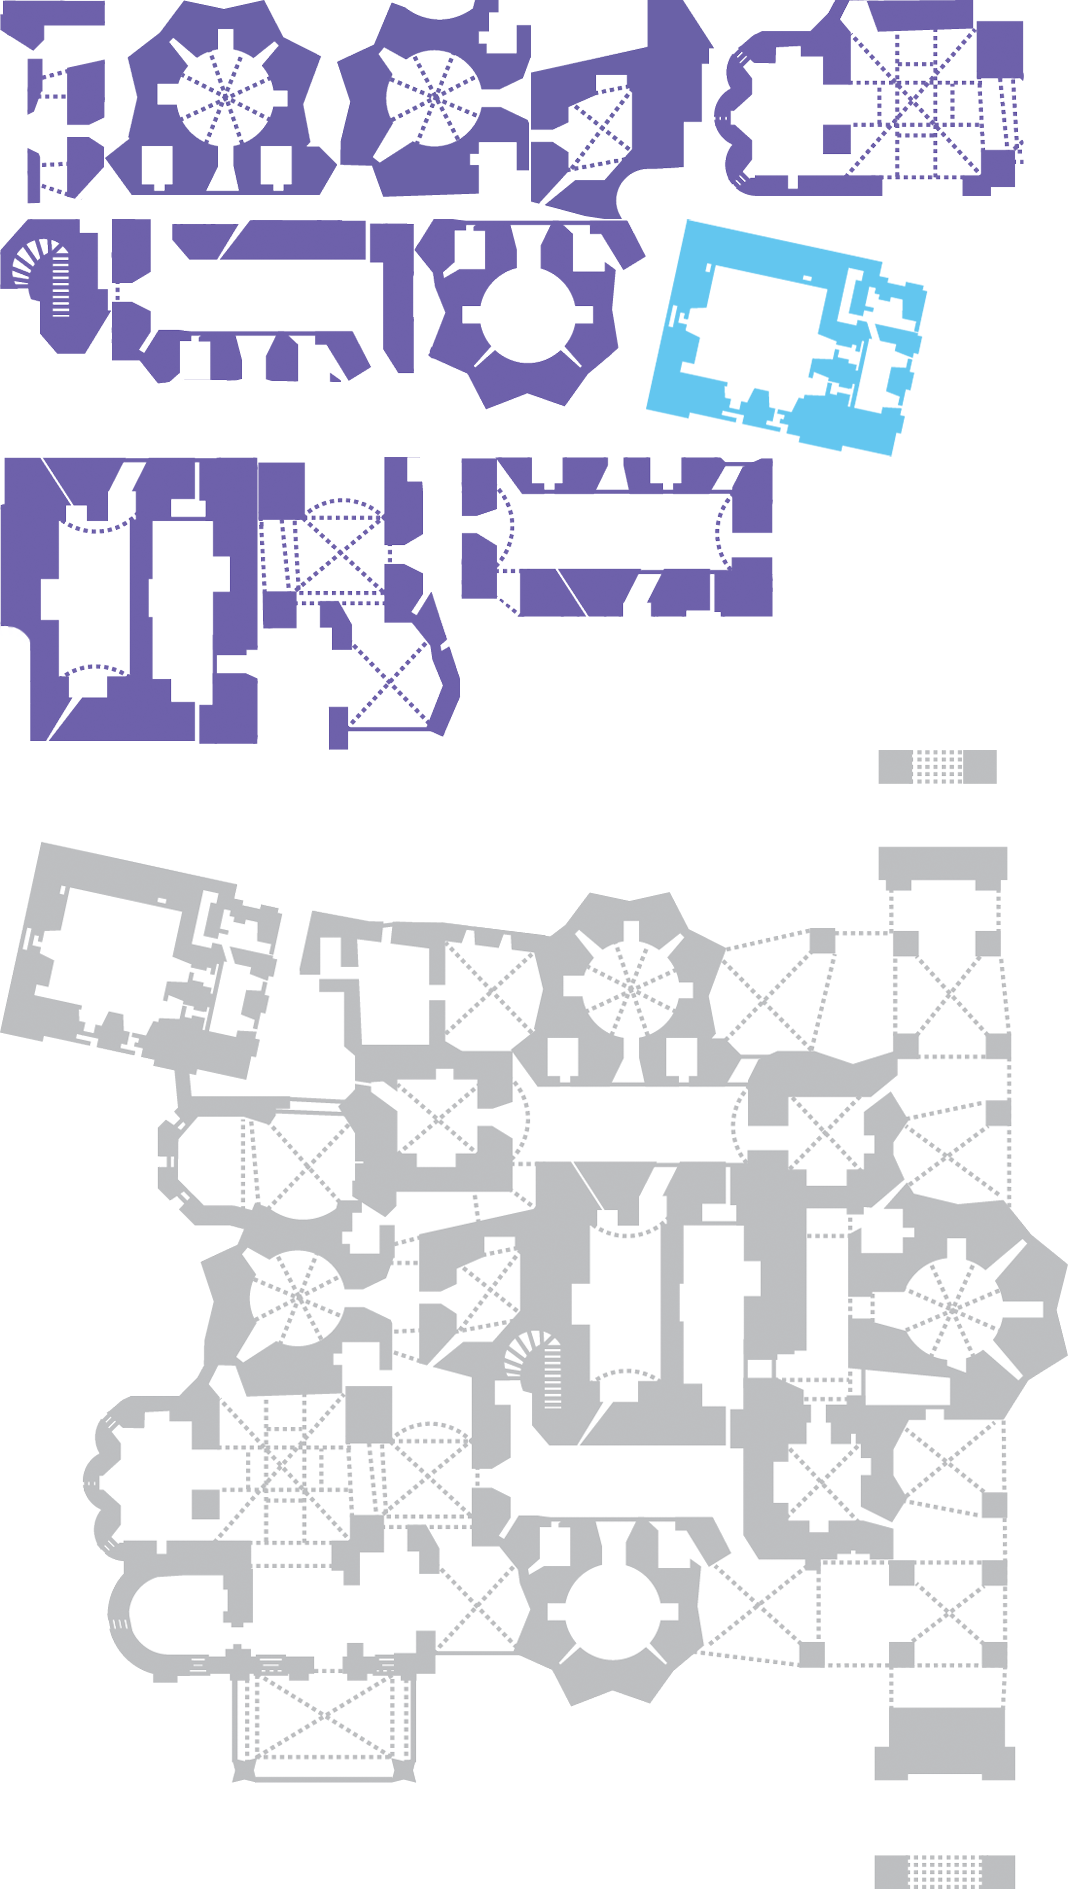
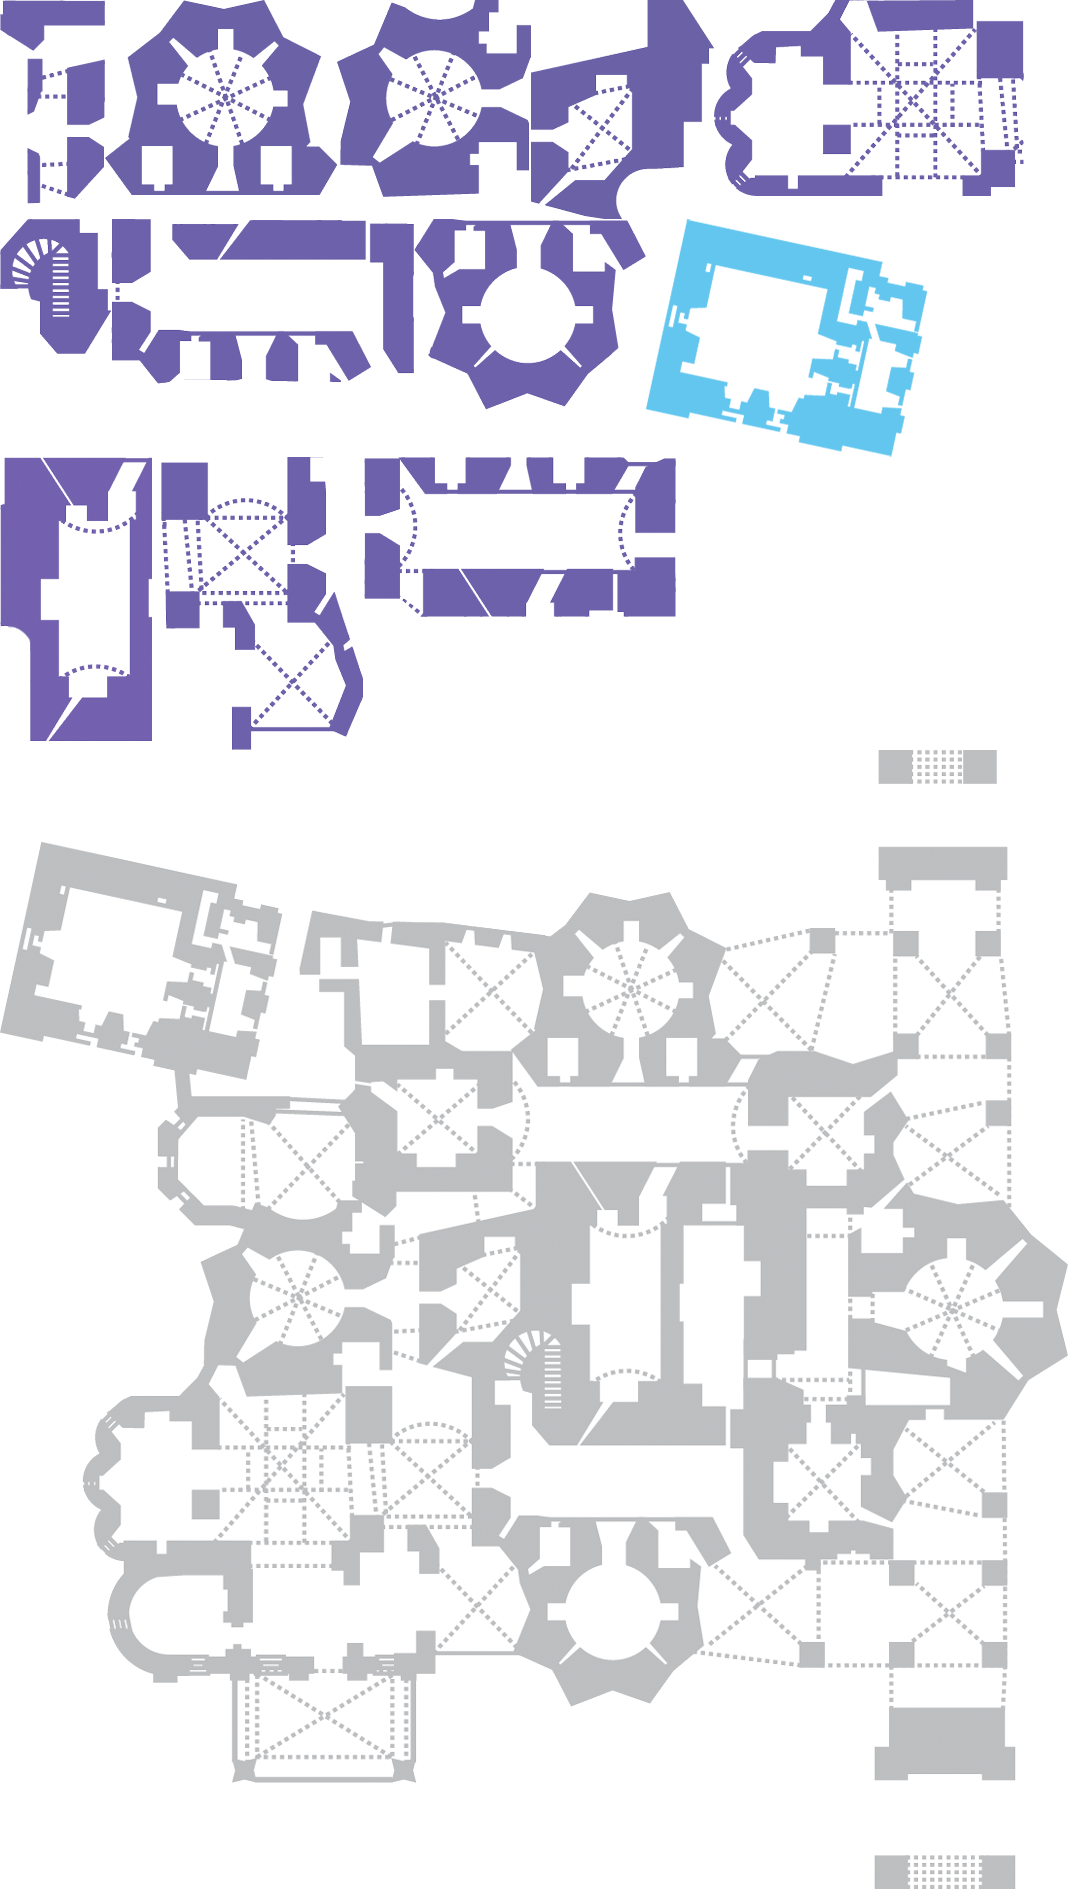
Fixed level 1 plan

Changed region(s): [[0.1236, 0.2186, 0.7416, 0.406]]

diff --git a/PokrovskySobor/www/styles/temples_list.css b/PokrovskySobor/www/styles/temples_list.css
@@ -572,7 +572,7 @@ div, ul {
   left: 668px;
   top: 660px;
   background-image: url('../images/generated/plans/level1-s8e1e0bed49.png');
-  background-position: -461px -457px;
+  background-position: -364px -457px;
   background-repeat: no-repeat;
   height: 160px;
   width: 312px;
@@ -603,18 +603,18 @@ div, ul {
   background-position: 0 -457px;
   background-repeat: no-repeat;
   height: 287px;
-  width: 258px;
+  width: 161px;
 }
 /* line 139, ../../app/styles/temples_list.scss */
 #level1 div.center-underchurch .panorama {
-  left: 197px;
+  left: 106px;
 }
 /* line 144, ../../app/styles/temples_list.scss */
 #level1 div.papert {
   left: 537px;
   top: 990px;
   background-image: url('../images/generated/plans/level1-s8e1e0bed49.png');
-  background-position: -258px -457px;
+  background-position: -161px -457px;
   background-repeat: no-repeat;
   height: 293px;
   width: 203px;
